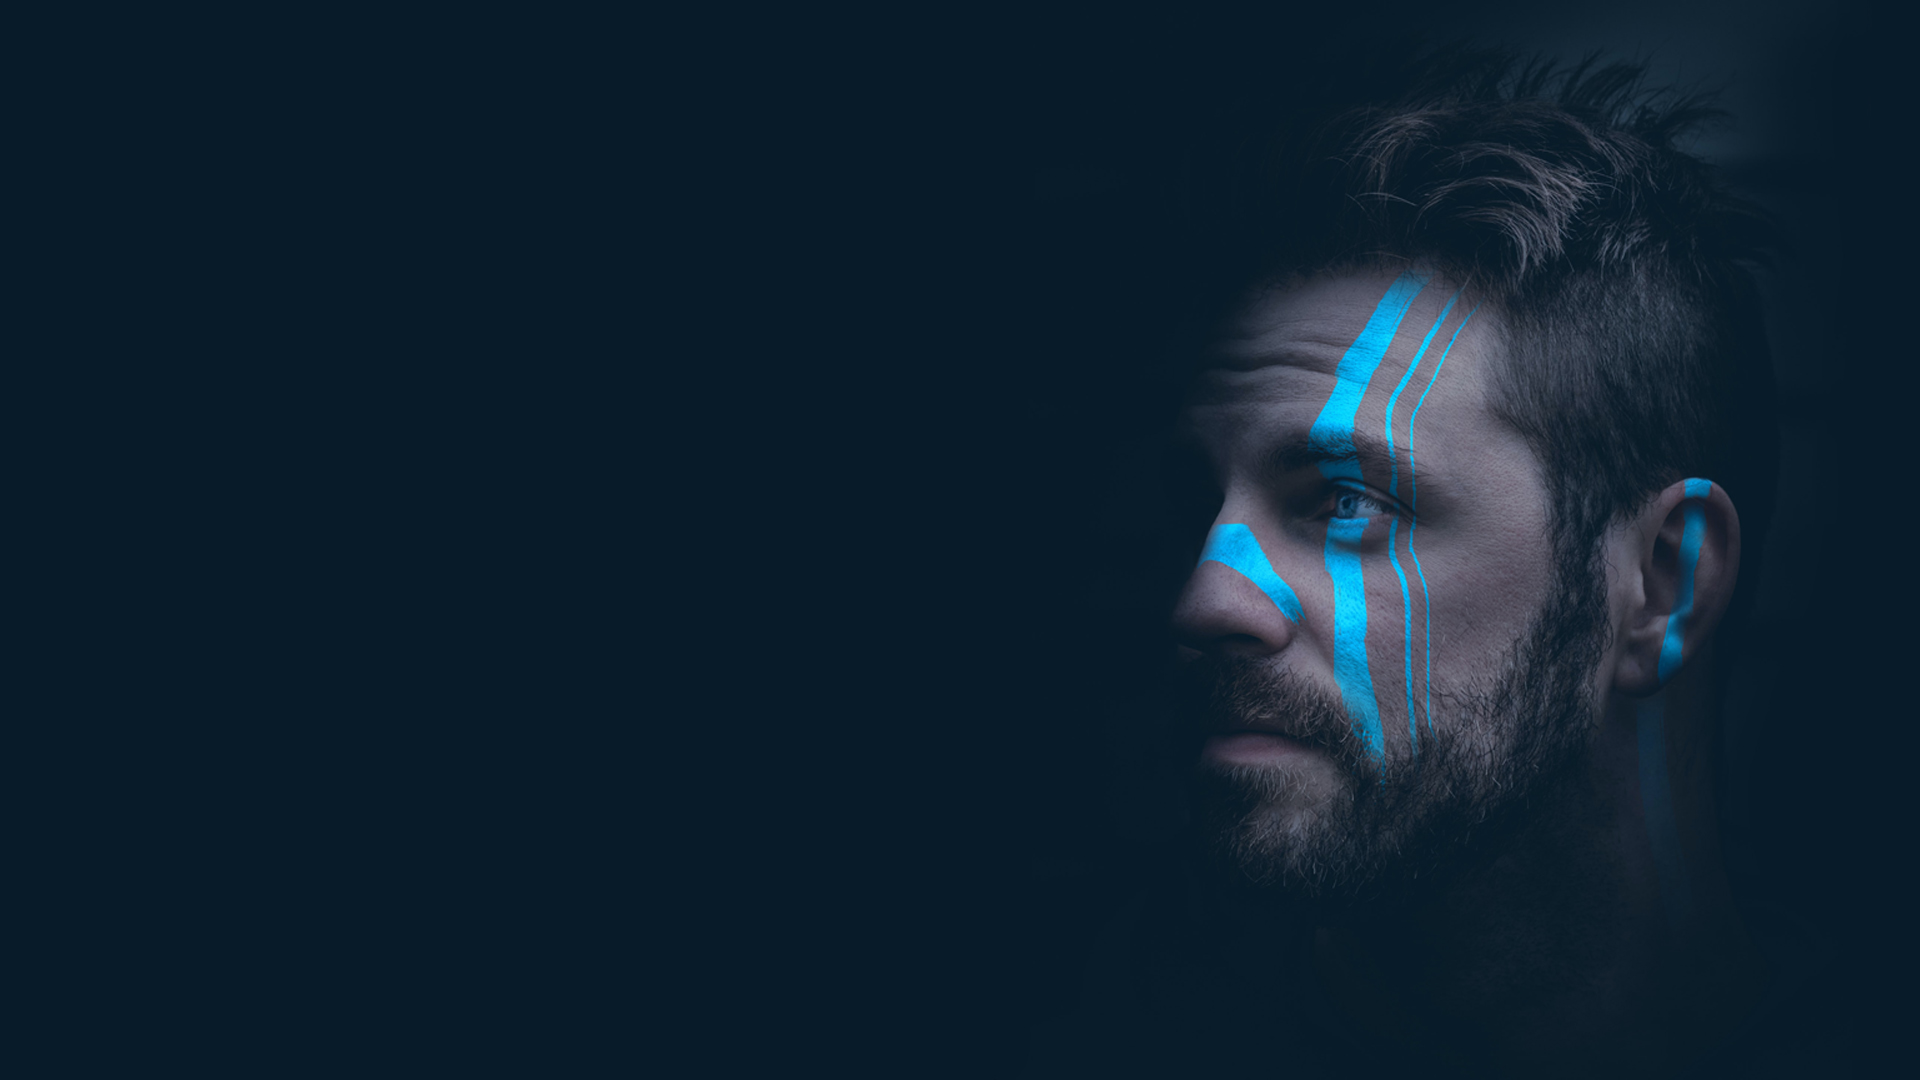
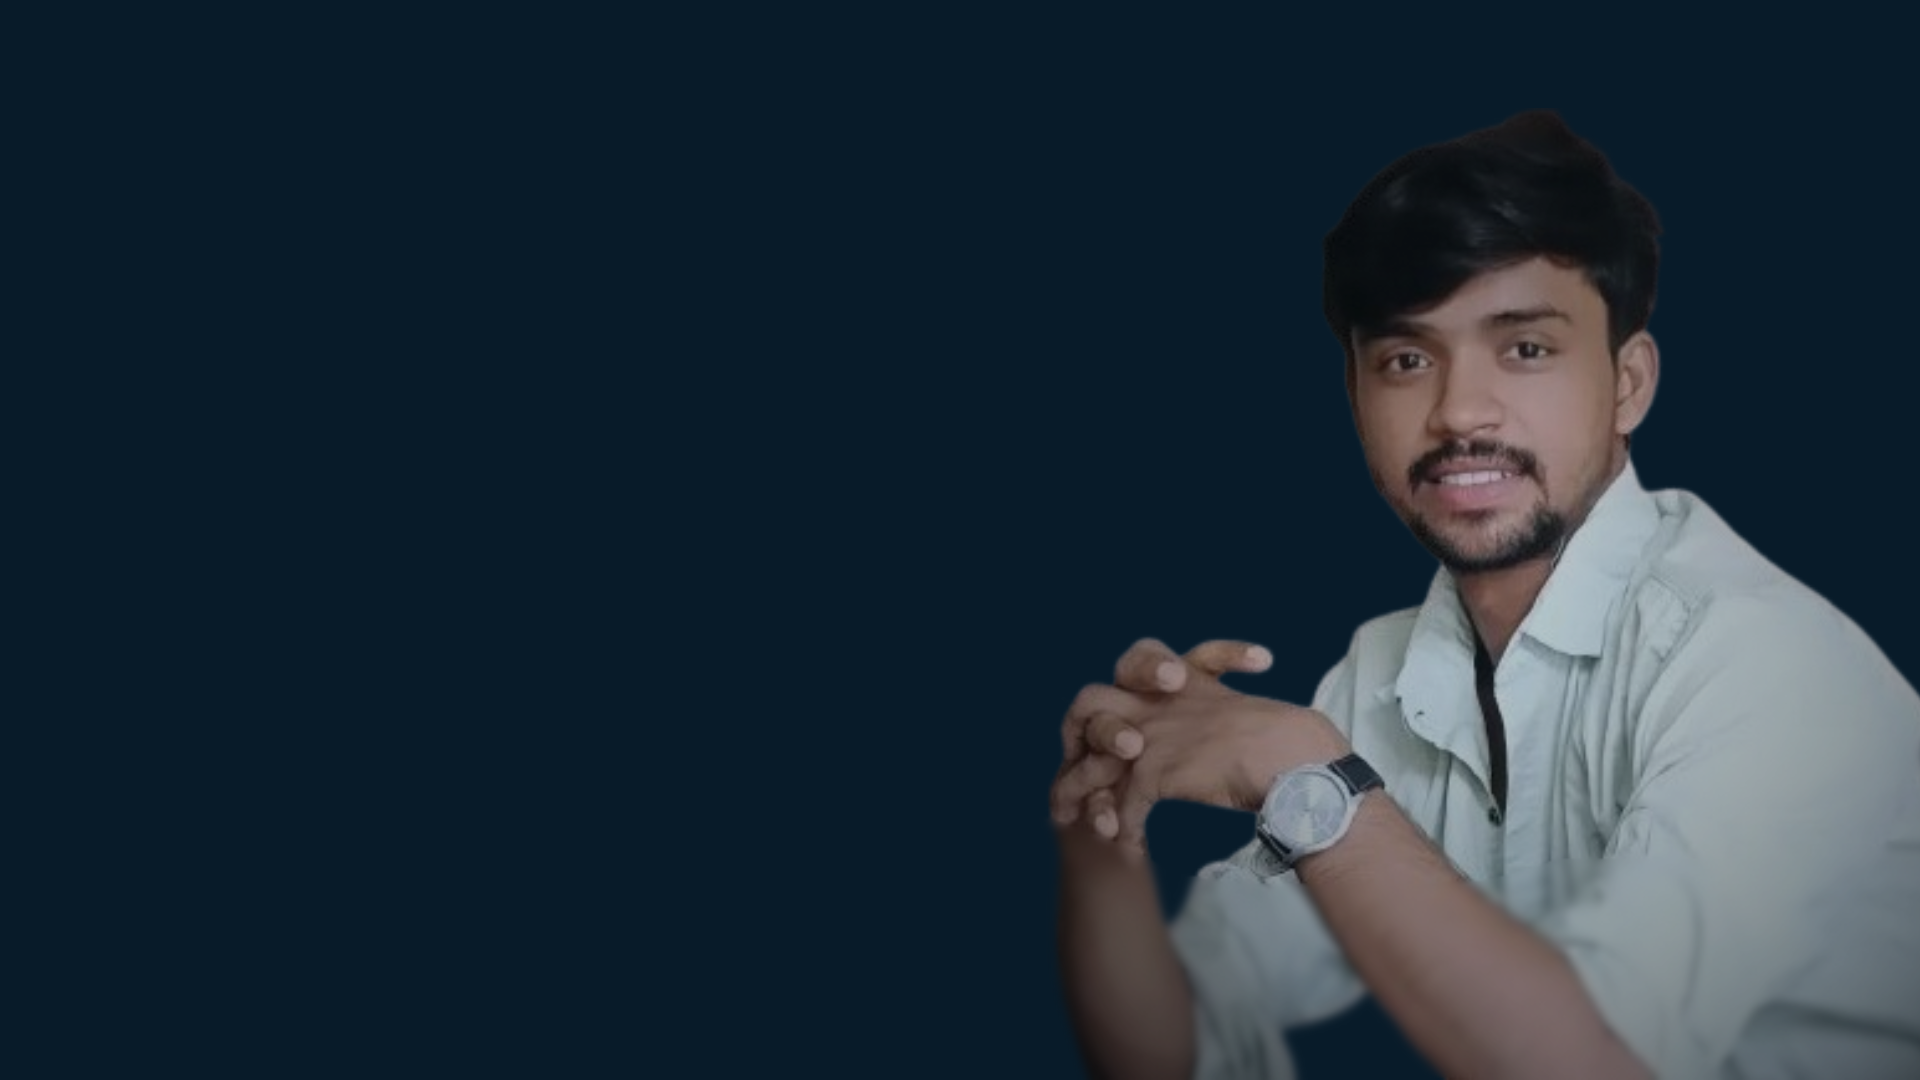
name & img changes

Changed region(s): [[0.5312, 0.0917, 1.0, 1.0]]

diff --git a/index.html b/index.html
@@ -38,9 +38,9 @@
 
     <section class="home show-animate" id="home">
         <div class="home-content">
-            <h1>Hi, I'm <span>Jacob Aiden</span><span class="animate" style="--i:2"></span></h1>
+            <h1>Hi, I'm <span>Md Saif</span><span class="animate" style="--i:2"></span></h1>
             <div class="text-animate">
-                <h3>Frontend Developer</h3>
+                <h3>Digital Enterpreneur</h3>
                 <span class="animate" style="--i:3"></span>
             </div>
             <p>Lorem ipsum dolor sit amet consectetur adipisicing elit. Pariatur veritatis adipisci quaerat earum quis
@@ -71,7 +71,7 @@
         <h2 class="heading">About <span>Me</span><span class="animate scroll" style="--i:1"></span></h2>
 
         <div class="about-img">
-            <img src="/images/about.jpg" alt="img">
+            <img src="/images/saif.png" alt="img">
             <span class="circle-spin"></span>
             <span class="animate scroll" style="--i:2"></span>
         </div>
@@ -163,7 +163,7 @@
 
                         </div>
                     </div>
-                    
+
 
                     <div class="education-content">
                         <div class="content">

diff --git a/css/style.css b/css/style.css
@@ -87,7 +87,7 @@ section {
     display: flex;
     align-items: center;
     padding: 0 9%;
-    background: url('/images/home.jpg') no-repeat;
+    background: url(../images/home.jpg) no-repeat;
     background-size: cover;
     background-position: center;
 }
@@ -129,7 +129,7 @@ section {
 
 .home.show-animate .home-content .text-animate h3 {
     animation: homeCursorText 6s linear infinite;
-    animation-delay: 2s; 
+    animation-delay: 2s;
 }
 
 .home-content .text-animate h3::before {
@@ -474,7 +474,7 @@ span {
 }
 
 .skills-column .skills-box {
-    position: relative ;
+    position: relative;
 }
 
 .skills-box .skills-content {
@@ -652,7 +652,7 @@ span {
 }
 
 .footer-text,
-.footer-iconTop{
+.footer-iconTop {
     position: relative;
 }
 
@@ -783,7 +783,7 @@ section:nth-child(odd) .animate.scroll,
     .animate.home-img {
         width: 55%;
     }
-} 
+}
 
 @media (max-width: 768px) {
     .header {
